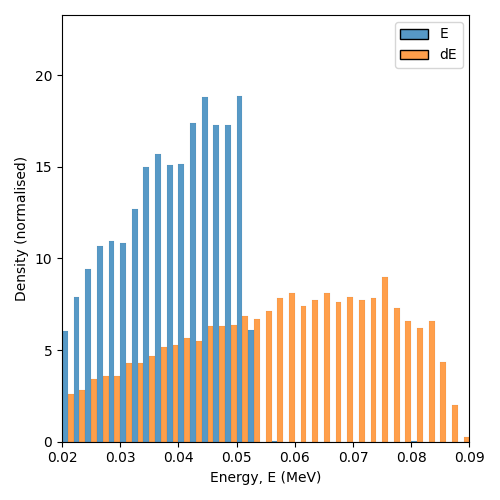
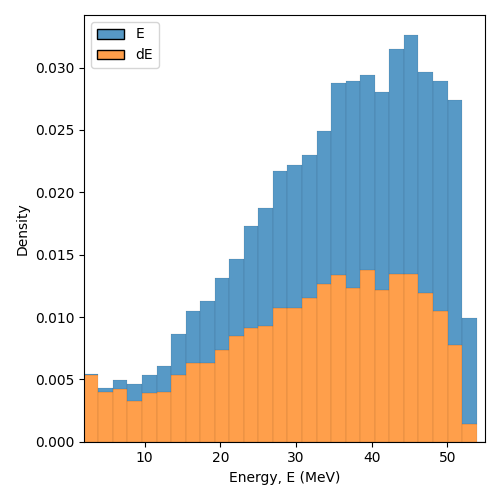
Recreating energy distribution figure

diff --git a/scripts/python/Graphics/EnergiesDistribution.py b/scripts/python/Graphics/EnergiesDistribution.py
@@ -92,8 +92,8 @@ for folder in os.listdir(ROOT):
                                                                branches["E"][entry])
                 if dE_e < 0.02: continue
 
-                dE.append(dE_e)
-                E.append(E_e)
+                dE.append(dE_e) # MeV
+                E.append(E_e*1e+03) # GeV to MeV
         
         n_tree += 1
         print('Tree: ', n_tree)
@@ -108,38 +108,22 @@ print('Time reading all the trees: ', time()-t0)
 E_s = np.array(E).reshape(-1,1)
 dE_s = np.array(dE).reshape(-1,1)
 
-scaler = MinMaxScaler()
-E_s = scaler.fit_transform(E_s)
-dE_s = scaler.fit_transform(dE_s)
-
-# fig1 = plt.figure(figsize=(5,5))
-# plt.hist(E_s, bins=500, density=True, color="green")
-# plt.title('Energy deposited (dE)')
-# plt.xlabel('Energy deposited, dE (MeV)')
-# plt.xlim(0.02,0.2)
-
-# fig2 = plt.figure(figsize=(5,5))
-# plt.hist(dE_s, bins=500, density=True, color="blue")
-# plt.title('Real energy (dE)')
-# plt.xlabel('Real energy, dE (MeV)')
-# plt.xlim(0.02,0.2)
-
-# fig3 = plt.figure(figsize=(5,5))
-# n, bins, patches = plt.hist([dE_s, E_s], bins=500, alpha=0.40 , label = 'setA', normed=True)  
-# # plt.hist(dE_s, bins=500, normed=True, alpha=0.40, color="blue")
-# # plt.hist(E_s, bins=500, normed=True, alpha = 0.40, color="green")
-# plt.xlabel('Energy, E (MeV)')
-# plt.xlim(0.02,0.2)
+# scaler = MinMaxScaler()
+# E_s = scaler.fit_transform(E_s)
+# dE_s = scaler.fit_transform(dE_s)
 
 E_s = E_s.reshape(-1)
 dE_s = dE_s.reshape(-1)
 data = {'E': E_s, 'dE': dE_s}
 
 fig = plt.figure(figsize=(5,5))
-sns.histplot(data=data, stat='density', common_norm=True, multiple='dodge', bins=500)
-plt.xlim(0.02,0.09)
+
+# common_norm such that the total area of the histogram is 1 --> normalised
+sns.histplot(data=data, stat='density', common_norm=True, multiple='stack', bins=500)
+# plt.xlim(0.02,0.09) # when normalised
+plt.xlim(2,55)
 plt.xlabel("Energy, E (MeV)")
-plt.ylabel("Density (normalised)") # normalised such that the total area of the histogram is 1
+plt.ylabel("Density") 
 
 plt.tight_layout()
 plt.show()
